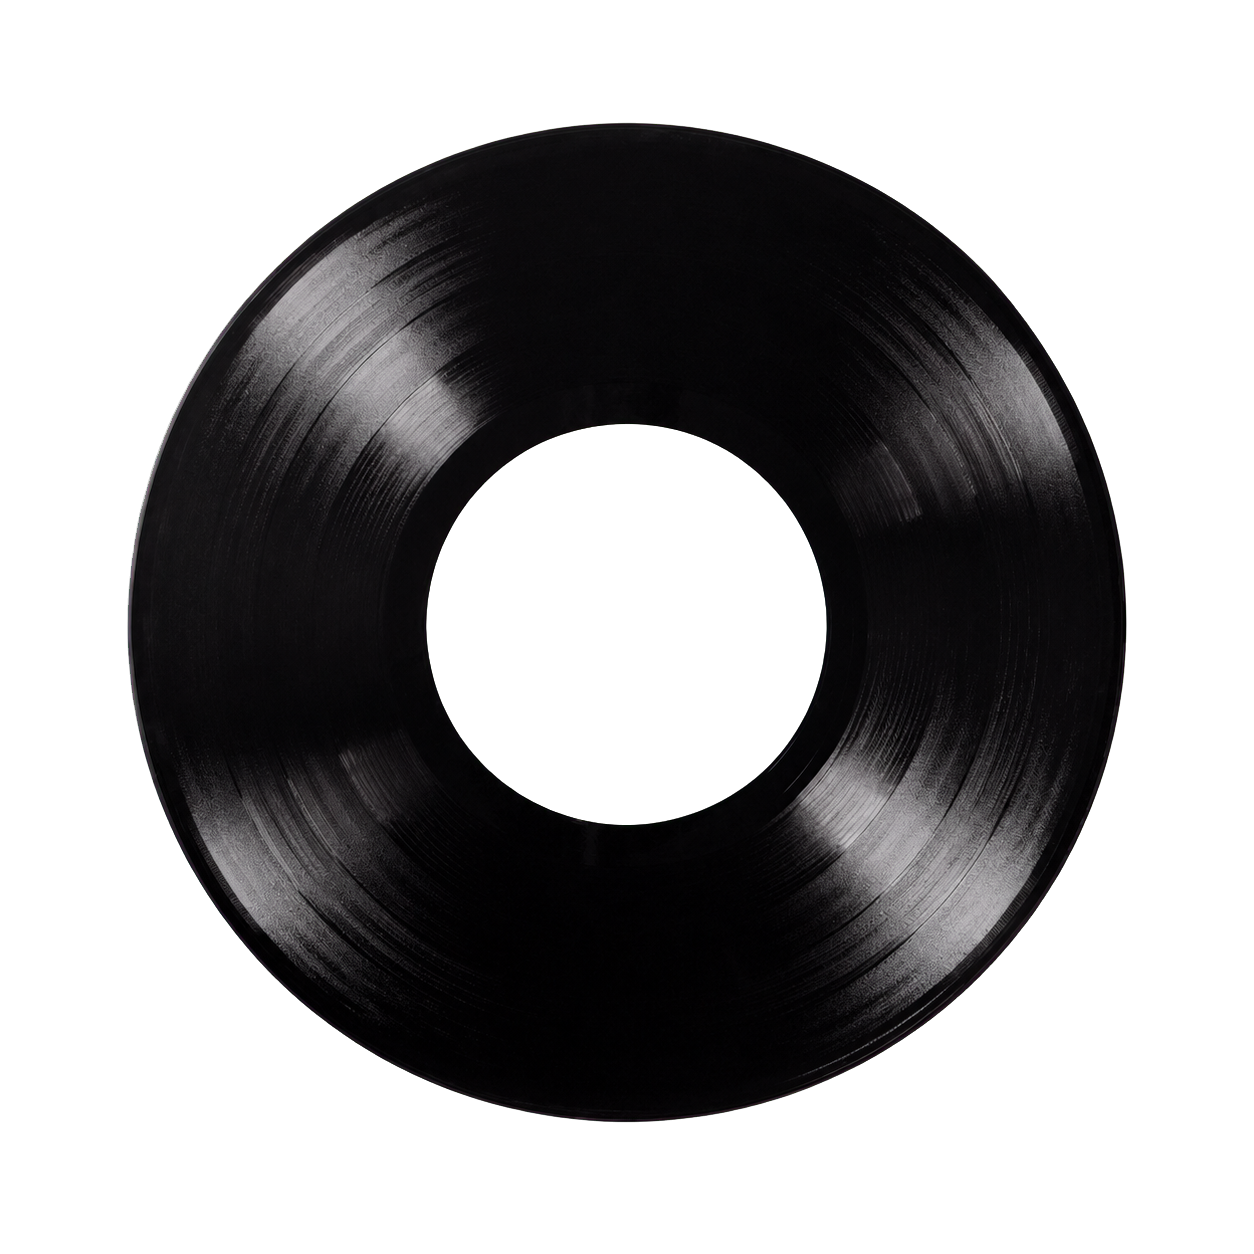
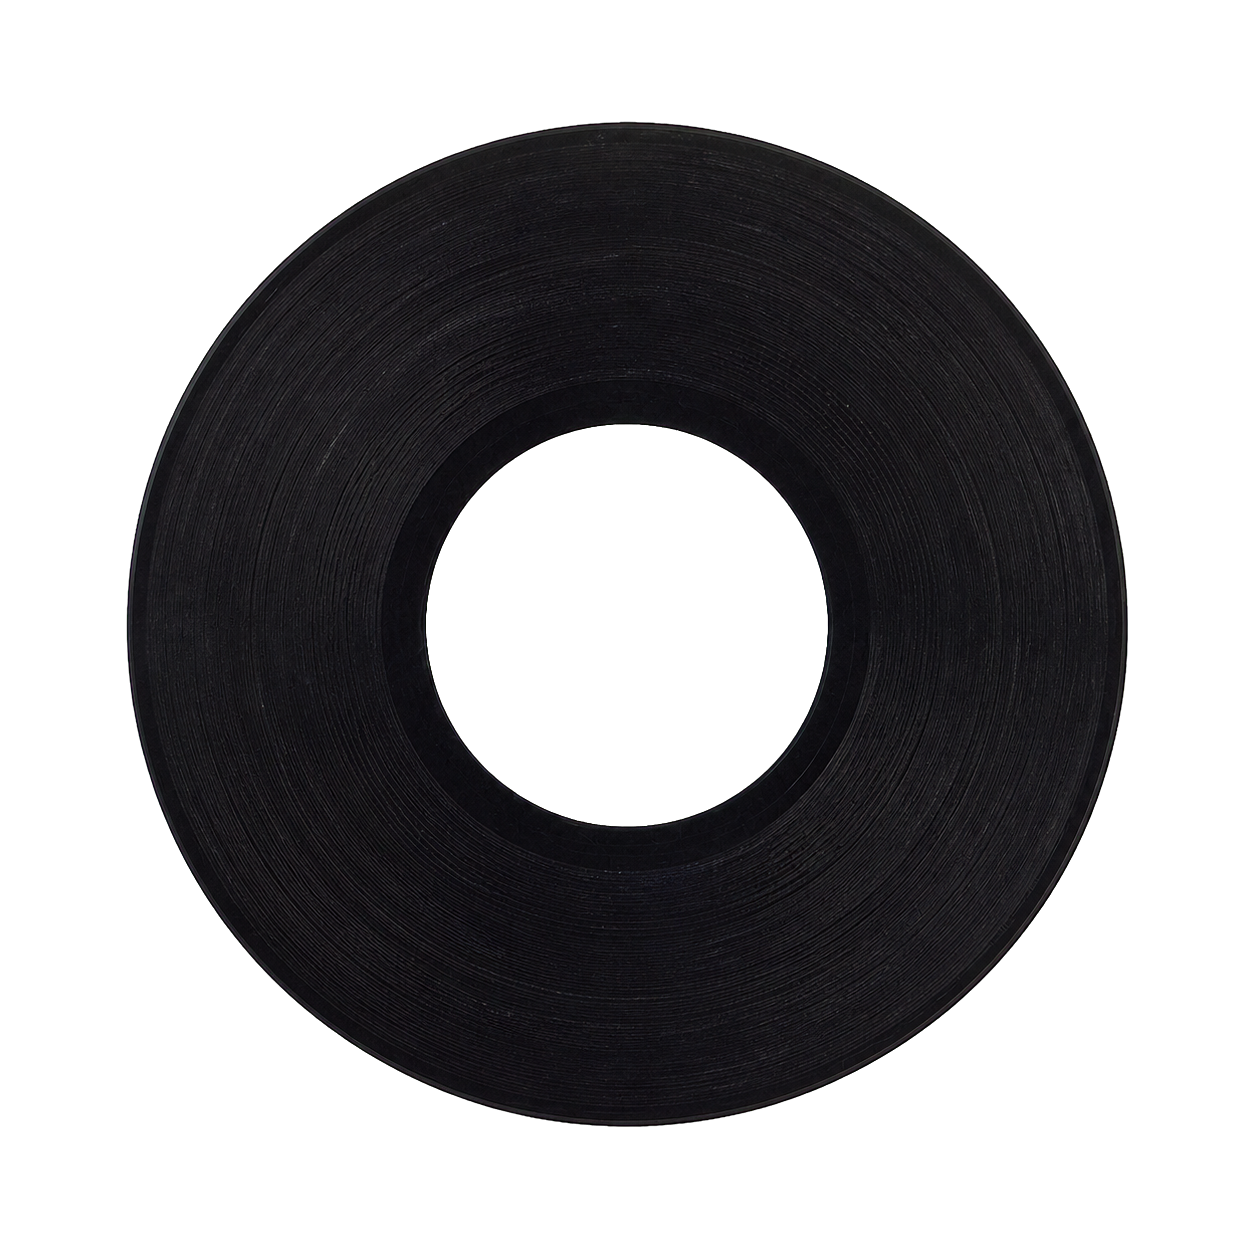
Separate rotating vinyl from fixed lighting

diff --git a/src/display.rs b/src/display.rs
@@ -1944,31 +1944,9 @@ fn draw_vinyl_record(
 
     // A real record has one densely packed continuous spiral groove rather
     // than a small stack of widely spaced rings.
-    let label_radius = radius / 6;
+    let label_radius = radius / 3;
     let inner_groove_radius = label_radius + (radius / 28).max(2);
     let outer_groove_radius = radius - 5;
-
-    // Two uneven opposing highlights emulate the softbox-like reflections in
-    // the reference record. Slightly different strengths keep the surface
-    // from looking mechanically symmetrical.
-    draw_vinyl_reflection(
-        canvas,
-        center_x,
-        center_y,
-        inner_groove_radius,
-        outer_groove_radius,
-        224.0,
-        opacity,
-    )?;
-    draw_vinyl_reflection(
-        canvas,
-        center_x,
-        center_y,
-        inner_groove_radius,
-        outer_groove_radius,
-        44.0,
-        opacity * 0.72,
-    )?;
 
     draw_spiral_groove(
         canvas,
@@ -2777,9 +2755,9 @@ pub fn run_display_loop(
         }
     };
 
-    // Prefer the photographed reference surface. Its highlights remain fixed
-    // to the virtual light source while the album label rotates independently.
-    // The procedural texture is retained as a lightweight fallback.
+    // The record is split into material and lighting layers. Groove texture
+    // rotates with the disc; specular reflections remain fixed to the virtual
+    // light source. The procedural textures are retained as fallbacks.
     let record_scene = compute_record_rect(layout.artwork_region);
     let mut vinyl_texture = {
         match texture_creator.load_texture("assets/turntable/vinyl-reference.png") {
@@ -2807,6 +2785,56 @@ pub fn run_display_loop(
                             vinyl_canvas,
                             Rect::new(0, 0, diameter, diameter),
                             1.0,
+                        );
+                    })
+                    .map_err(|e| e.to_string())?;
+                Some(texture)
+            }
+        }
+    };
+    let mut vinyl_highlight_texture = {
+        match texture_creator.load_texture("assets/turntable/vinyl-highlights.png") {
+            Ok(mut texture) => {
+                texture.set_blend_mode(BlendMode::Blend);
+                Some(texture)
+            }
+            Err(e) => {
+                log_error(
+                    &ctx,
+                    &format!(
+                        "Failed to load vinyl lighting overlay; using procedural fallback: {e}"
+                    ),
+                );
+                let diameter = record_scene.width().max(1);
+                let radius = diameter as i32 / 2;
+                let mut texture = texture_creator
+                    .create_texture_target(PixelFormatEnum::RGBA8888, diameter, diameter)
+                    .map_err(|e| e.to_string())?;
+                texture.set_blend_mode(BlendMode::Blend);
+                canvas
+                    .with_texture_canvas(&mut texture, |lighting_canvas| {
+                        lighting_canvas.set_draw_color(Color::RGBA(0, 0, 0, 0));
+                        lighting_canvas.clear();
+                        let label_radius = radius / 3;
+                        let inner_radius = label_radius + (radius / 28).max(2);
+                        let outer_radius = radius - 5;
+                        let _ = draw_vinyl_reflection(
+                            lighting_canvas,
+                            radius,
+                            radius,
+                            inner_radius,
+                            outer_radius,
+                            224.0,
+                            1.0,
+                        );
+                        let _ = draw_vinyl_reflection(
+                            lighting_canvas,
+                            radius,
+                            radius,
+                            inner_radius,
+                            outer_radius,
+                            44.0,
+                            0.72,
                         );
                     })
                     .map_err(|e| e.to_string())?;
@@ -3389,11 +3417,24 @@ pub fn run_display_loop(
                             let rotation = (elapsed as f64 * 200.0) % 360.0;
                             if let Some(vinyl) = vinyl_texture.as_mut() {
                                 vinyl.set_alpha_mod(((1.0 - fade) * 255.0).round() as u8);
-                                // The photographed sheen is tied to the light
-                                // source, so the vinyl surface stays fixed while
-                                // the center label rotates beneath it.
-                                canvas.copy(vinyl, None, record)?;
+                                canvas.copy_ex(
+                                    vinyl,
+                                    None,
+                                    record,
+                                    rotation,
+                                    None,
+                                    false,
+                                    false,
+                                )?;
                                 vinyl.set_alpha_mod(255);
+                            }
+                            if let Some(highlight) = vinyl_highlight_texture.as_mut() {
+                                const HIGHLIGHT_ALPHA: u8 = 92;
+                                highlight.set_alpha_mod(
+                                    ((1.0 - fade) * HIGHLIGHT_ALPHA as f32).round() as u8,
+                                );
+                                canvas.copy(highlight, None, record)?;
+                                highlight.set_alpha_mod(255);
                             }
                             previous_label
                                 .set_alpha_mod(((1.0 - fade) * 255.0).round() as u8);
@@ -3468,7 +3509,20 @@ pub fn run_display_loop(
                             // 33 1/3 RPM equals 200 degrees per second.
                             let rotation = (shrink_elapsed as f64 * 200.0) % 360.0;
                             if let Some(vinyl) = vinyl_texture.as_ref() {
-                                canvas.copy(vinyl, None, record)?;
+                                canvas.copy_ex(
+                                    vinyl,
+                                    None,
+                                    record,
+                                    rotation,
+                                    None,
+                                    false,
+                                    false,
+                                )?;
+                            }
+                            if let Some(highlight) = vinyl_highlight_texture.as_mut() {
+                                highlight.set_alpha_mod(92);
+                                canvas.copy(highlight, None, record)?;
+                                highlight.set_alpha_mod(255);
                             }
                             if let Some(circular) = circular_artwork_texture.as_ref() {
                                 canvas.copy_ex(